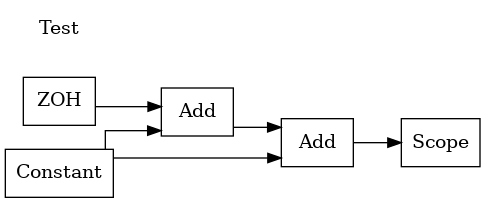
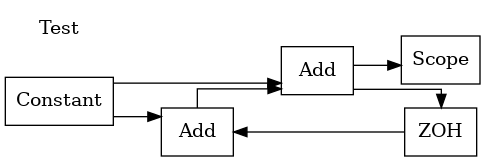
Fix circular dep issue with delay block filtering

Changed region(s): [[0.0, 0.2174, 1.0, 0.9938], [0.0619, 0.0932, 0.1856, 0.2174]]

diff --git a/block_flow/block_flow.py b/block_flow/block_flow.py
@@ -68,6 +68,10 @@ class Block:
         return f"{self.name} (inputs: {len(self.inputs)}, outputs: {len(self.outputs)})"
 
 
+class DelayBlock(Block):
+    pass
+
+
 class System:
     def __init__(self, name: str = None):
 
@@ -126,10 +130,12 @@ class System:
         if not self.compiled:
             raise ValueError("Block system has not been compiled!")
 
+        # print("UPDATE: ")
         for block in self.sorted_blocks:
+            # print(block)
             block.update(t)
 
-    def connect(self, signal, dest, dest_port):
+    def connect(self, signal, dest, dest_port, dep=True):
 
         # Error Check
         if signal.block not in self.blocks or dest not in self.blocks:
@@ -139,7 +145,8 @@ class System:
             raise ValueError("Invalid destination index")
 
         # Add a dependency from the signal's block to the destination block
-        self._add_dependency(signal.block, dest)
+        if not isinstance(dest, DelayBlock):
+            self._add_dependency(signal.block, dest)
 
         # Connect a signal to a block input
         dest.inputs[dest_port] = signal
@@ -230,7 +237,6 @@ class Constant(Block):
         self._add_signal(0, Signal(self))
 
     def update(self, t):
-        print("Constant")
         self.outputs[0].set_data(self.value)
 
 
@@ -244,8 +250,6 @@ class Add(Block):
         self._add_signal(0, Signal(self))
 
     def update(self, t):
-        print("ADD")
-        print(self)
         self.outputs[0].set_data(
             self.inputs[0].get_data() + self.inputs[1].get_data())
 
@@ -309,7 +313,7 @@ class Step(Block):
                                  self.T else self.init_val)
 
 
-class ZeroOrderHold(Block):
+class ZeroOrderHold(DelayBlock):
     def __init__(self, sample_time, name: str = None):
         super().__init__(num_inputs=1, num_outputs=1, name=name)
         self.sample_time = sample_time
@@ -322,9 +326,8 @@ class ZeroOrderHold(Block):
         self.outputs[0].set_data(0)
 
     def update(self, t):
-        print("ZOH")
         if self.last_sample_time is None or t >= self.last_sample_time + self.sample_time:
-            self.outputs[0] = self.inputs[0]
+            self.outputs[0].set_data(self.inputs[0].get_data())
             self.last_sample_time = t
 
 
@@ -424,10 +427,10 @@ system.compile()
 
 system.run(5, dt=0.01)
 print(system)
-# system.update(0)
+system.update(0)
 
 
-# scope.view()
+scope.view()
 
 # print(system)
 # print(f"result: {add_block_2.outputs[0].get_data()}")
